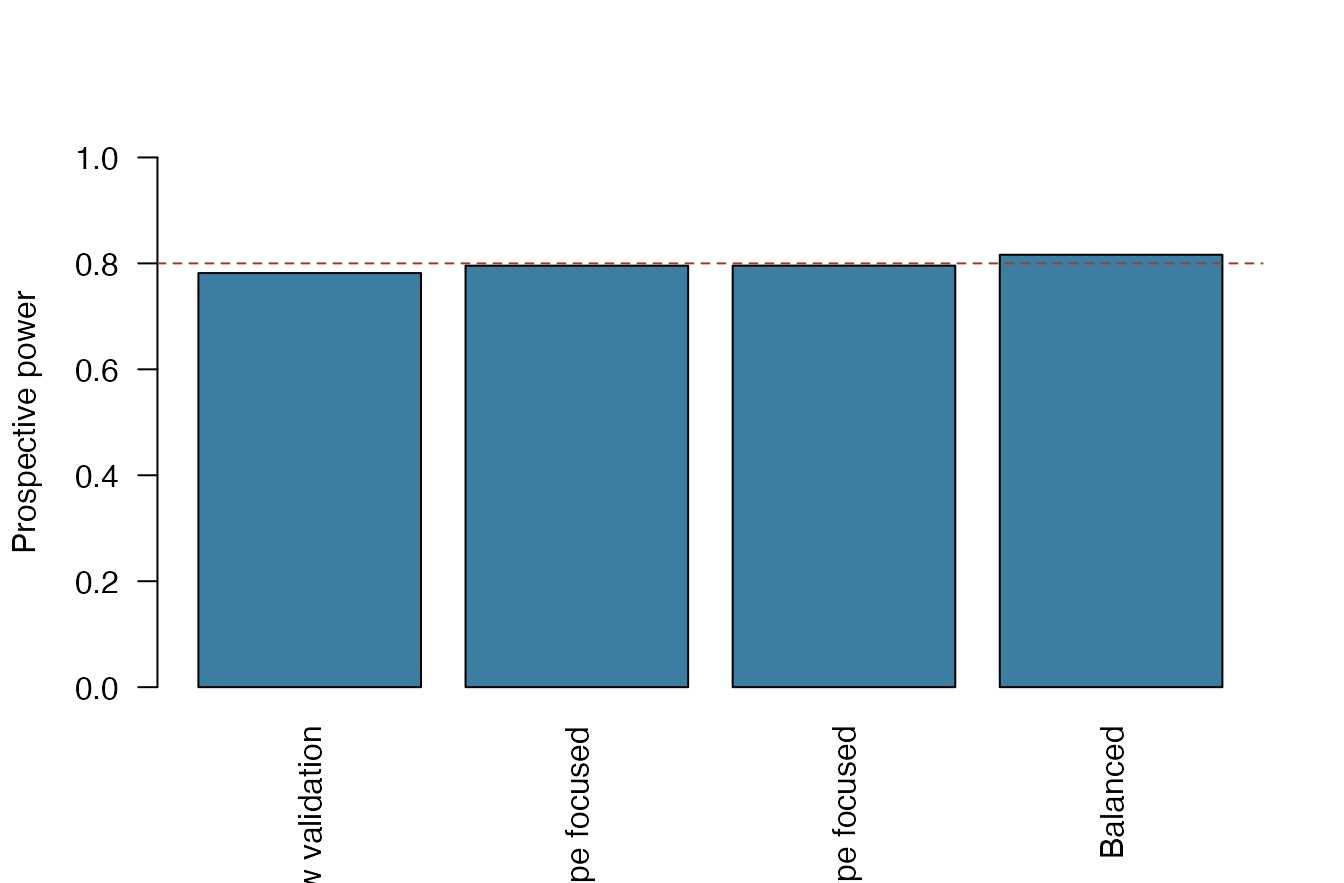
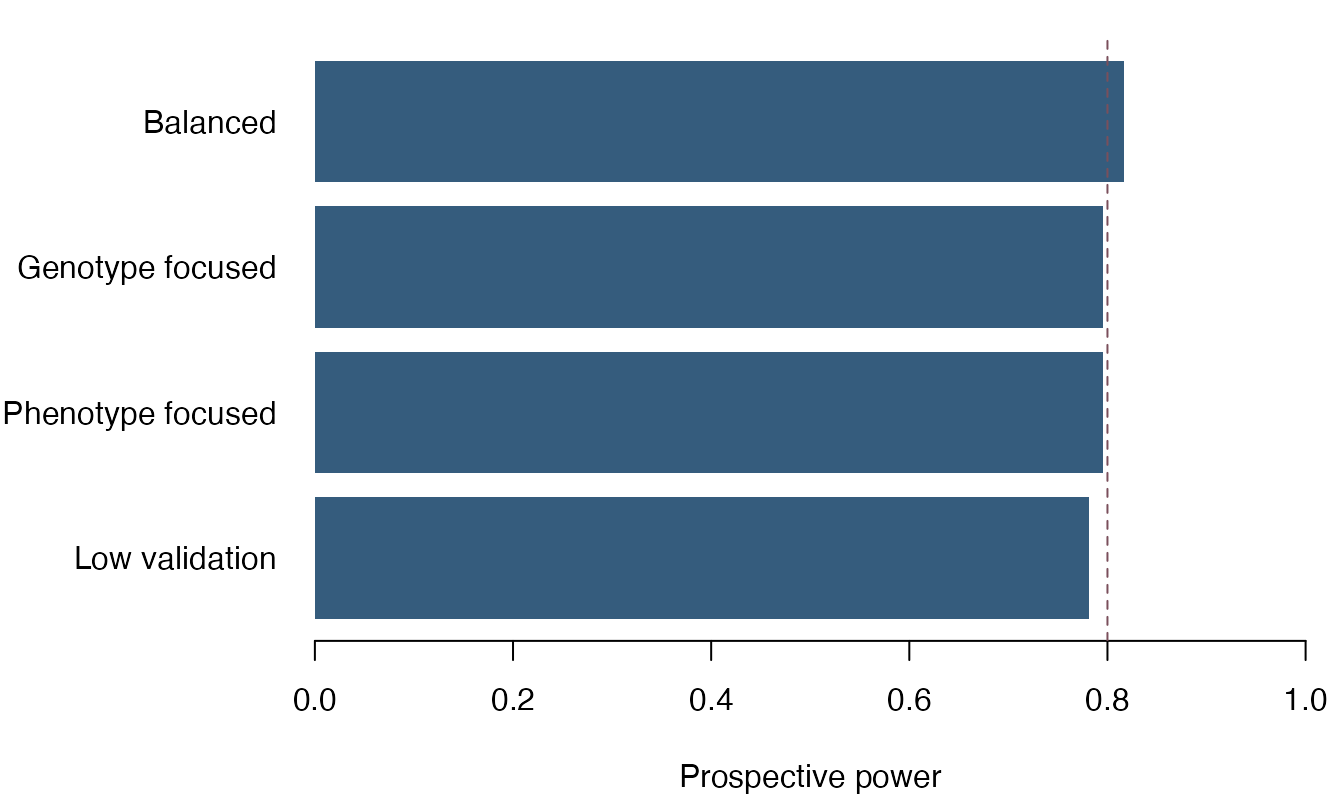
Deploy pkgdown site from 7cbcc4f

diff --git a/articles/paweh-07-lrtae-study-design.html b/articles/paweh-07-lrtae-study-design.html
@@ -423,21 +423,26 @@ matrix singular.</p>
 <span><span class="co">#&gt; 3               11     220  9.538300 0.7957574</span></span>
 <span><span class="co">#&gt; 4               44     220 10.021618 0.8163019</span></span></code></pre></div>
 <div class="sourceCode" id="cb6"><pre class="downlit sourceCode r">
-<code class="sourceCode R"><span><span class="fu"><a href="https://rdrr.io/r/graphics/barplot.html" class="external-link">barplot</a></span><span class="op">(</span></span>
+<code class="sourceCode R"><span><span class="va">old_par</span> <span class="op">&lt;-</span> <span class="fu"><a href="https://rdrr.io/r/graphics/par.html" class="external-link">par</a></span><span class="op">(</span>mar <span class="op">=</span> <span class="fu"><a href="https://rdrr.io/r/base/c.html" class="external-link">c</a></span><span class="op">(</span><span class="fl">4.3</span>, <span class="fl">8.2</span>, <span class="fl">1.0</span>, <span class="fl">1.0</span><span class="op">)</span><span class="op">)</span></span>
+<span><span class="fu"><a href="https://rdrr.io/r/graphics/barplot.html" class="external-link">barplot</a></span><span class="op">(</span></span>
 <span>  <span class="va">allocations</span><span class="op">$</span><span class="va">Power</span>,</span>
 <span>  names.arg <span class="op">=</span> <span class="va">allocations</span><span class="op">$</span><span class="va">design</span>,</span>
-<span>  las <span class="op">=</span> <span class="fl">2</span>,</span>
-<span>  ylim <span class="op">=</span> <span class="fu"><a href="https://rdrr.io/r/base/c.html" class="external-link">c</a></span><span class="op">(</span><span class="fl">0</span>, <span class="fl">1</span><span class="op">)</span>,</span>
-<span>  ylab <span class="op">=</span> <span class="st">"Prospective power"</span>,</span>
-<span>  col <span class="op">=</span> <span class="st">"#3B7EA1"</span></span>
+<span>  horiz <span class="op">=</span> <span class="cn">TRUE</span>,</span>
+<span>  xlim <span class="op">=</span> <span class="fu"><a href="https://rdrr.io/r/base/c.html" class="external-link">c</a></span><span class="op">(</span><span class="fl">0</span>, <span class="fl">1</span><span class="op">)</span>,</span>
+<span>  xlab <span class="op">=</span> <span class="st">"Prospective power"</span>,</span>
+<span>  las <span class="op">=</span> <span class="fl">1</span>,</span>
+<span>  col <span class="op">=</span> <span class="st">"#355C7D"</span>,</span>
+<span>  border <span class="op">=</span> <span class="cn">NA</span></span>
 <span><span class="op">)</span></span>
-<span><span class="fu"><a href="https://rdrr.io/r/graphics/abline.html" class="external-link">abline</a></span><span class="op">(</span>h <span class="op">=</span> <span class="fl">0.80</span>, lty <span class="op">=</span> <span class="fl">2</span>, col <span class="op">=</span> <span class="st">"#A33A2B"</span><span class="op">)</span></span></code></pre></div>
+<span><span class="fu"><a href="https://rdrr.io/r/graphics/abline.html" class="external-link">abline</a></span><span class="op">(</span>v <span class="op">=</span> <span class="fl">0.80</span>, lty <span class="op">=</span> <span class="fl">2</span>, col <span class="op">=</span> <span class="st">"#7A4F5B"</span><span class="op">)</span></span></code></pre></div>
 <div class="figure">
 <img src="paweh-07-lrtae-study-design_files/figure-html/validation-figure-1.png" class="r-plt" alt="Prospective LRTae power for four validation allocations with the same total sample size and error assumptions." width="672"><p class="caption">
 Prospective LRTae power for four validation allocations with the same
 total sample size and error assumptions.
 </p>
 </div>
+<div class="sourceCode" id="cb7"><pre class="downlit sourceCode r">
+<code class="sourceCode R"><span><span class="fu"><a href="https://rdrr.io/r/graphics/par.html" class="external-link">par</a></span><span class="op">(</span><span class="va">old_par</span><span class="op">)</span></span></code></pre></div>
 <p>Validation is therefore not merely a data-cleaning exercise: it
 contributes statistical information. The comparison does not establish
 that one allocation is universally optimal. Phenotype and genotype
@@ -508,7 +513,7 @@ Studies</em>. Springer; 2020. <a href="https://doi.org/10.1007/978-3-030-61121-7
 <div class="section level2">
 <h2 id="session-information">Session information<a class="anchor" aria-label="anchor" href="#session-information"></a>
 </h2>
-<div class="sourceCode" id="cb7"><pre class="downlit sourceCode r">
+<div class="sourceCode" id="cb8"><pre class="downlit sourceCode r">
 <code class="sourceCode R"><span><span class="fu"><a href="https://rdrr.io/r/utils/sessionInfo.html" class="external-link">sessionInfo</a></span><span class="op">(</span><span class="op">)</span></span>
 <span><span class="co">#&gt; R version 4.6.1 (2026-06-24)</span></span>
 <span><span class="co">#&gt; Platform: aarch64-apple-darwin23</span></span>
